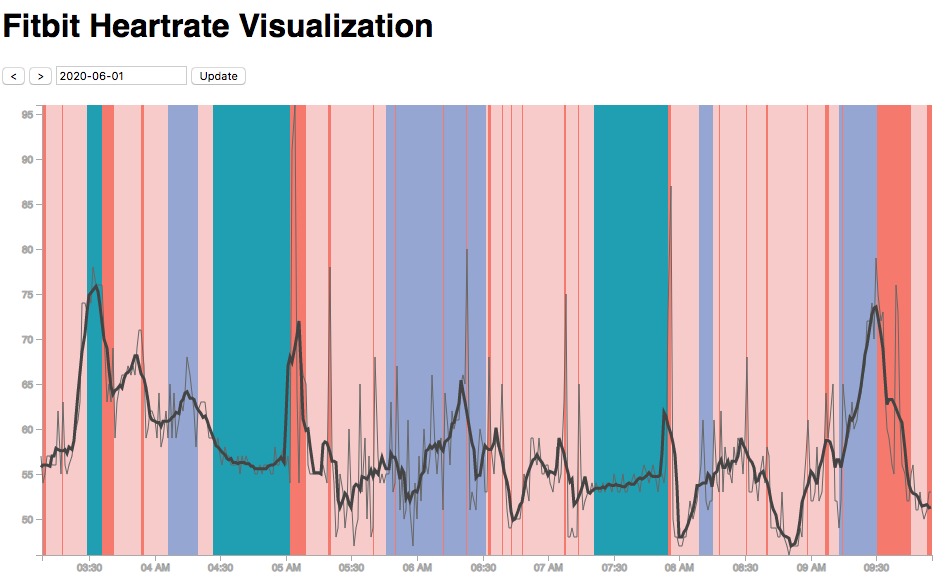
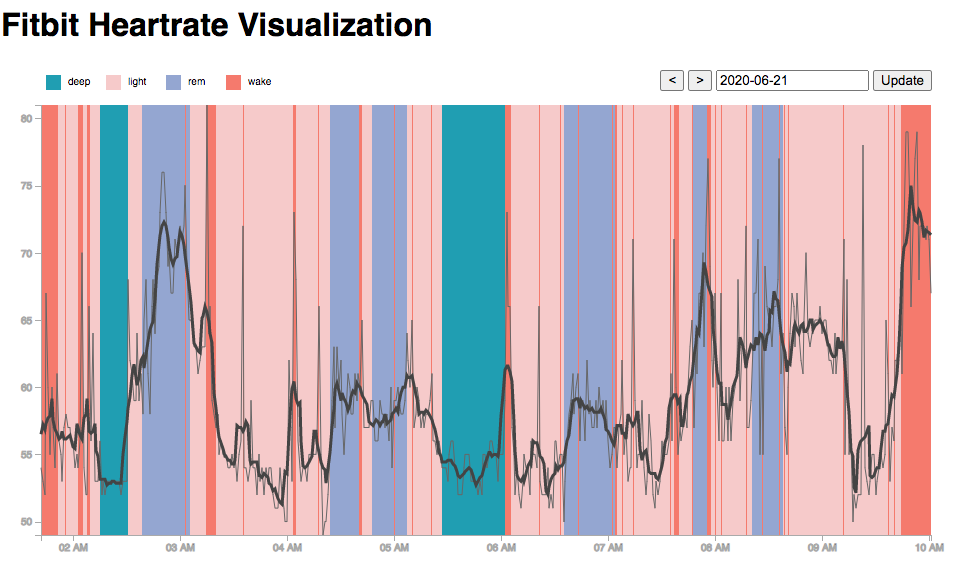
Added legend and moved form to overlap svg element

diff --git a/src/index.js b/src/index.js
@@ -161,7 +161,7 @@ var chart = d3.select("#chart").style("background-color", "white");
 var outerWidth = chart.attr("width");
 var outerHeight = chart.attr("height");
 
-var margin = {top: 20, right: 30, bottom: 30, left: 40},
+var margin = {top: 40, right: 30, bottom: 30, left: 40},
     width = outerWidth - margin.left - margin.right,
     height = outerHeight - margin.top - margin.bottom;
 
@@ -169,9 +169,30 @@ var x = d3.scaleTime().rangeRound([0, width]);
 
 var y = d3.scaleLinear().range([height, 0]);
 
+var color = d3.scaleOrdinal()
+  .domain(["deep","light","rem","wake"])
+  .range(["#069fb2", "#f7cac9", "#92a8d1", "#f7786b"]);
+
 var xAxis = d3.axisBottom(x);
 
 var yAxis = d3.axisLeft(y);
+
+var legendG = chart.selectAll(".legend")
+    .data(color.domain()).enter().append("g")
+    .attr("transform", (d, i) => "translate(" + (i*60 + margin.left + 5) + "," + 10 + ")");
+
+legendG.append("rect")
+    .attr("class", "legend")
+    .attr("fill", d => color(d))
+    .attr("x", 0)
+    .attr("y", 0)
+    .attr("width", 15)
+    .attr("height", 15);
+
+legendG.append("text")
+    .attr("x", 22)
+    .attr("y", 10)
+    .text(d => d);
 
 chart = chart
     .append("g")
@@ -255,16 +276,7 @@ function update_chart_data(accessToken, dateOfSleep) {
             .attr("class", "bar")
             .attr("stroke", "none")
             .merge(sleepZoneBars) // after new elements created, merge existing with new for the attributes depending on data
-            .attr("fill", function(d) { // TODO use color function to decode "level" to a color
-                if (d.level === "deep")
-                    return "#069fb2";
-                else if (d.level === "wake")
-                    return "#f7786b";
-                else if (d.level === "rem")
-                    return "#92a8d1";
-                else // light
-                    return "#f7cac9";
-            })
+            .attr("fill", d => color(d.level))
             .attr("x", d => x(Date.parse(d.dateTime))) // start time
             .attr("y", 0 ) // upper end
             .attr("height", height ) // lower end

diff --git a/index.html b/index.html
@@ -10,14 +10,15 @@
   </head>
   <body onload="javascript:init_form();">
     <h1>Fitbit Heartrate Visualization</h1>
-    <div id="insert"></div>
-    <form id="dateForm">
-      <button type="button" onclick="javascript:change_date_of_sleep(-1);">&lt;</button>
-      <button type="button" onclick="javascript:change_date_of_sleep(1);">&gt;</button>
-      <input type="text" id="dateInput" onchange="javascript:validate_date_of_sleep();">
-      <button type="submit" onclick="javascript:update_date_of_sleep(accessToken);">Update</button>
-    </form>
-    <svg id="chart" width="960" height="500" style="background: lightgrey"></svg>
+    <div style="position: relative">
+      <form id="dateForm" style="position: absolute; top: 5px; right: 30px">
+        <button type="button" onclick="javascript:change_date_of_sleep(-1);">&lt;</button>
+        <button type="button" onclick="javascript:change_date_of_sleep(1);">&gt;</button>
+        <input type="text" id="dateInput" onchange="javascript:validate_date_of_sleep();">
+        <button type="submit" onclick="javascript:update_date_of_sleep(accessToken);">Update</button>
+      </form>
+      <svg id="chart" width="960" height="500" style="background: lightgrey"></svg>
+    </div>
   </body>
   <script src="src/index.js"></script>
 </html>

diff --git a/src/style.css b/src/style.css
@@ -6,7 +6,7 @@ h1 {
   stroke: #aaa;
 }
 
-.axis text {
+text {
   font: 10px sans-serif;
 }
 
